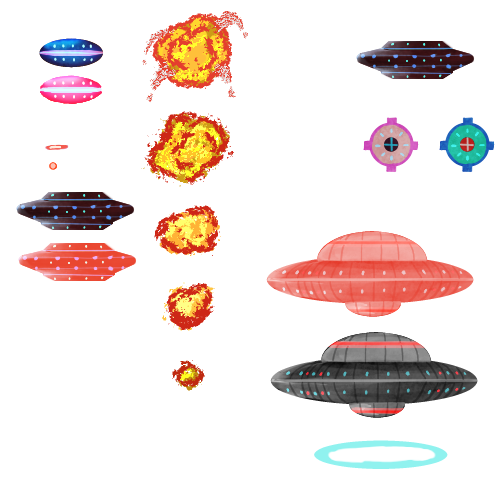
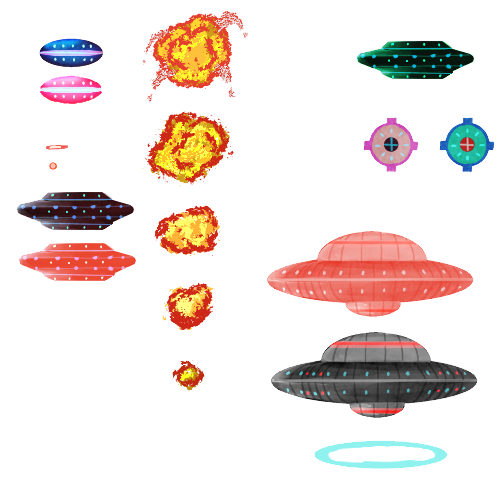
스프라이트 재 적용

diff --git a/Project/Code/enemy.py b/Project/Code/enemy.py
@@ -10,7 +10,7 @@ class Enemy:
         self.Type_one_starting_point_x = 1200
         self.Type_one_starting_point_y = 400
         if Enemy.image == None:
-            Enemy.image = load_image('jet.png')
+            Enemy.image = load_image('enemy.png')
         self.identity = 1
 
         if self.identity == 1:
@@ -20,12 +20,13 @@ class Enemy:
 
 
     def draw(self):
-        self.image.clip_draw(630, 0, 60, 20, self.x, self.y)
+        self.image.clip_draw(37, 432, 67, 32, self.x, self.y,60, 50)
         draw_rectangle(*self.get_bb())
 
     def update(self):
         if self.identity == 1:
             self.x = (self.x % 1200) + 5
+            self.y = (self.x % 800) + 5
             pass
 
     def reduce_Hp(self):
@@ -33,4 +34,4 @@ class Enemy:
 
     def get_bb(self):  # 충돌체크용 좌표 받아오기
         # fill here
-        return self.x - 50, self.y - 40, self.x + 30, self.y + 10
+        return self.x - 30, self.y - 20, self.x + 30, self.y + 20

diff --git a/Project/Code/player.py b/Project/Code/player.py
@@ -136,7 +136,6 @@ class Player:
         self.event_que = []
         self.cur_state = RunState
         self.cur_state.enter(self, None)
-        self.gimage = load_image('animation_sheet.png')
         self.angle = 0
         self.sound.set_volume(10)
         self.missile_sound.set_volume(30)
